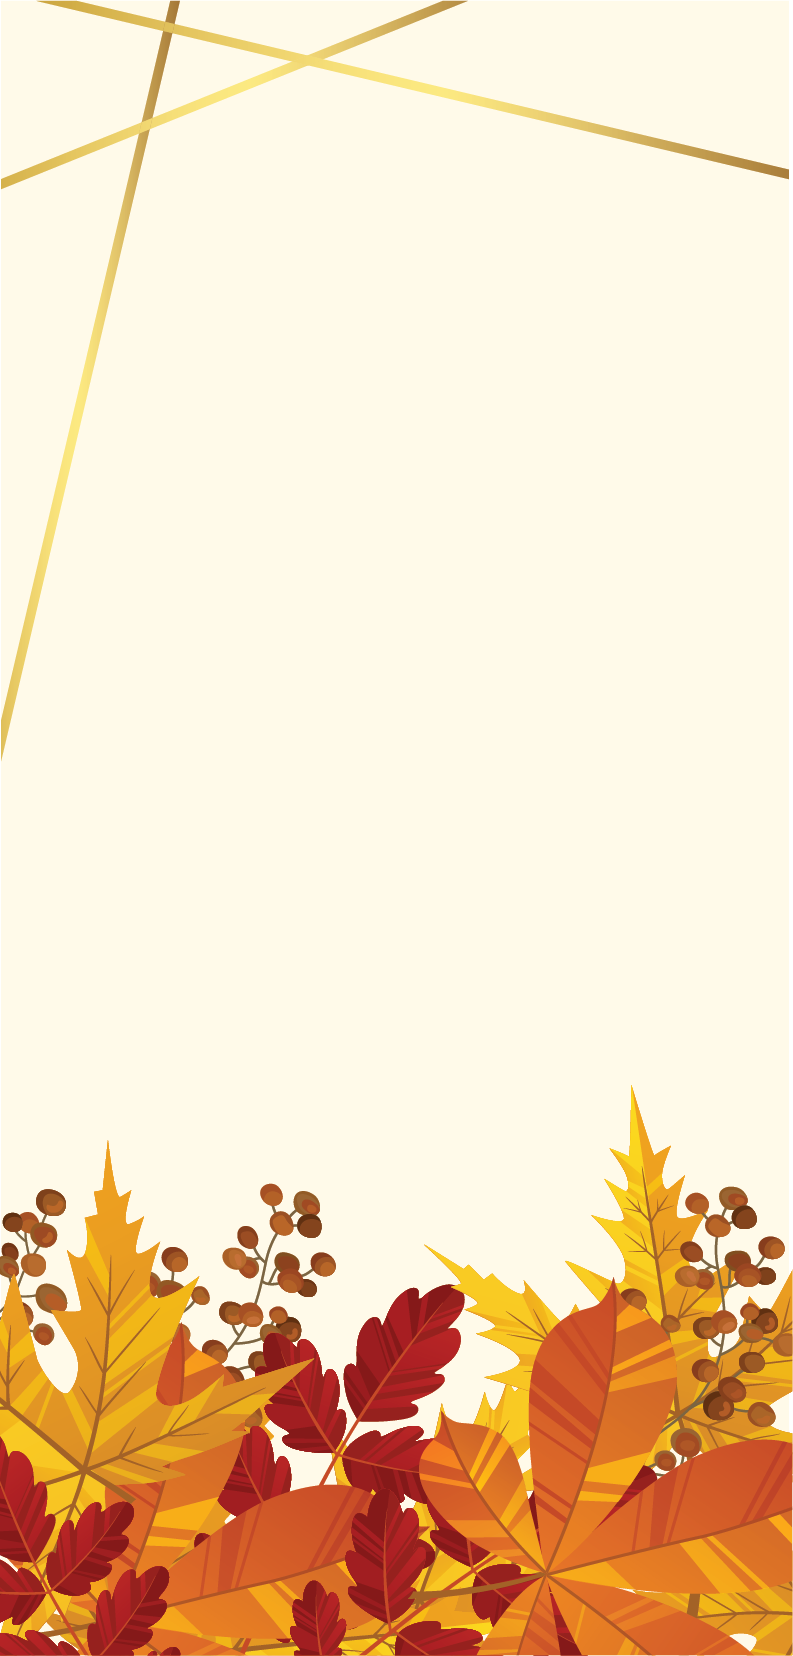
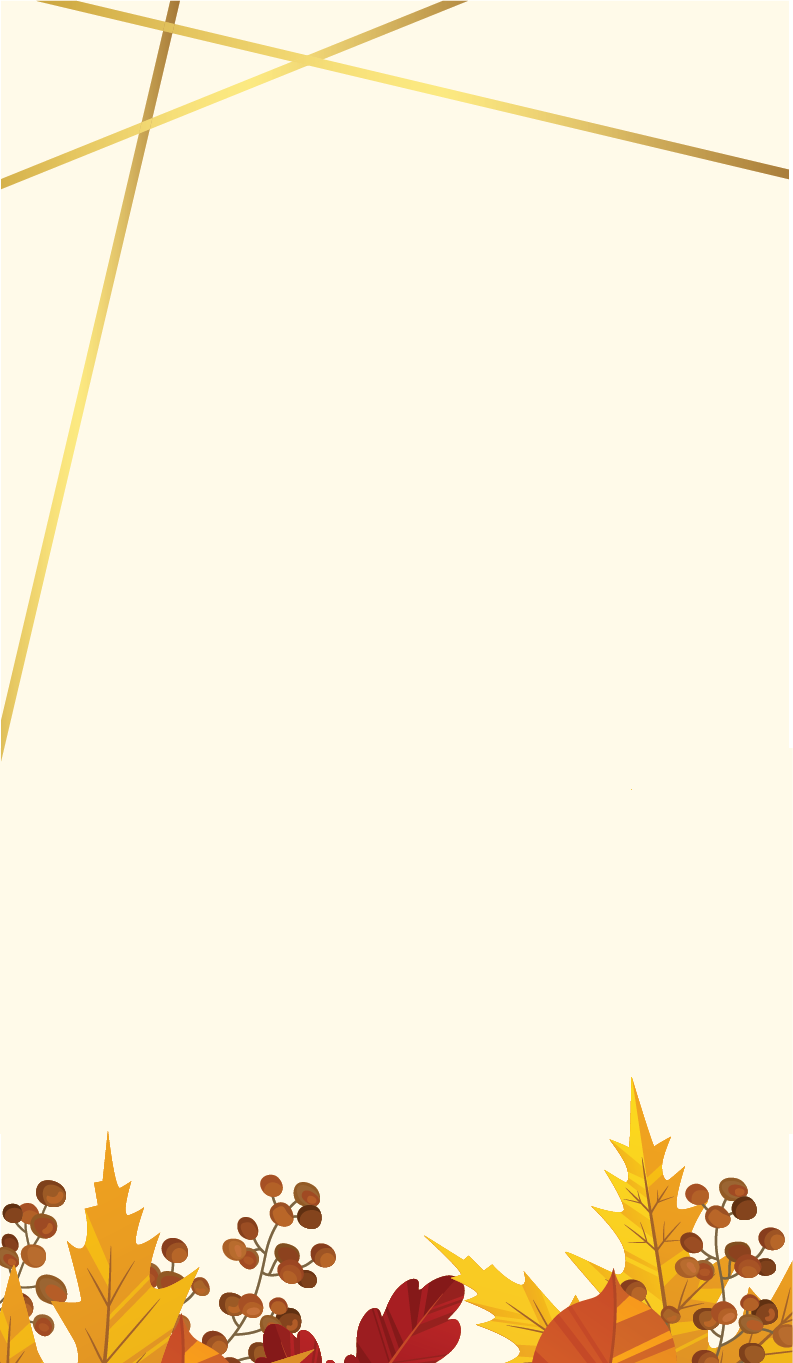
Updated accomodations section

Changed region(s): [[0.0, 0.6471, 1.0, 1.0], [0.0, 0.0, 0.9987, 0.5547]]

diff --git a/index.html b/index.html
@@ -9,16 +9,19 @@
   </head>
   <body>
     <header>
-      <img src="/images/tree.png" alt="An autumn tree with leaves falling">
       <h1>Nicole & Randy</h1>
       <p class="first">are getting married!</p>
       <p class="second">2023.10.14</p>
     </header>
     <main>
-        <section class ="intro">
-            <img class="heroImage" src="/images/nicole-randy.jpg" alt="Picture of a woman and a man">
-        </section>
-      <section class="location">
+      <section class="intro">
+        <img
+          class="heroImage"
+          src="/images/nicole-randy.jpg"
+          alt="Picture of a woman and a man"
+        />
+      </section>
+       <section class="location">
         <div class="description">
             <h1>Join us at Hatfield Farms</h2>
             <p>1840 Hammonds Plains Road, Hammonds Plains, NS B4B 1P4</p>
@@ -29,8 +32,8 @@
 
         </map>
         
-      </section>
-      <section class="schedule">
+      </section> 
+    <section class="schedule">
         <div class="wrapper">
         <h1>Schedule</h1>
         <div class="timeline">
@@ -71,7 +74,7 @@
 </div>
 
       </section>
-      <section class="food">
+    <section class="food">
         <h1>Wedding Dinner</h1>
         <div class="food-section">
           <h2>Main Course</h2>
@@ -99,16 +102,16 @@
           </p>
           <p>Wine will be provided with dinner.</p>
           <p>Guests can also bring their own alchohol, but no glass bottles. Plastic, cans, and cardboard are all fine.</p>
-          <p>Ice will be provided.</p>
+          <p class="lastPara">Ice will be provided.</p>
         </div>
       </section>
-      <section class="entertainment">
+  <section class="entertainment">
         <h1>Entertainment</h1>
         <div class="dance">
             <h2>The Dance</h2>
             <div class="band">
                 <img src="/images/jesus-murphy-logo.png" alt="Jesus Murphy Logo">
-                <p><a href="http://jesusmurphy.ca">Jesus Murphy</a>   will be performing!</p>
+                <p><a href="http://jesusmurphy.ca">Jesus Murphy</a> will be performing!</p>
             </div>
             <div>
                 <iframe class="centeredRoundedCorners" src="https://www.youtube.com/embed/2HaF8O0ObvA" title="Nova MultiFest 2021 - Jesus Murphy Band" frameborder="0" allow="accelerometer; autoplay; clipboard-write; encrypted-media; gyroscope; picture-in-picture" allowfullscreen></iframe>
@@ -120,8 +123,8 @@
         <div class="rubberRodeo">
             <h2>Rubber Rodeo</h2>
             <div class="description">
-                <p>Rubber Rodeo is a blast for people of all ages. Wet weather won’t dampen the fun in this indoor, heated games barn.</p>
-                <p>Become a rubber rodeo star on our Mechanical bull. Blow off some steam in our Box & Bounce ring or challenge friends and family to a round of Gladiator Combat.</p>
+                <p>Rubber Rodeo is a blast for people of all ages. Wet weather won't dampen the fun in this indoor, heated games barn.</p>
+                <p>Become a rubber rodeo star on the Mechanical bull. Blow off some steam in our Box & Bounce ring or challenge friends and family to a round of Gladiator Combat.</p>
             </div>
             <div class="rubberRodeoImages">
                 <img src="/images/bull-riding.png" alt="A man riding a bull with a smiley face.">
@@ -129,34 +132,20 @@
             </div>
         </div>
       </section>
-      <section class="accomodations">
+    <section class="accomodations">
         <h1>Overnight Accomodations</h1>
         <p>If you would like to extend the party and stay after the last wagon leaves at 11:45pm, you can stay onsite.</p>
-        <div class="card">
-            <img src="/images/accomodations.png" alt="A picture of a log cabin">
-            <div class="description">
-                <p>Bring your sleeping bag and enjoy a night under the brilliant stars away from the glare of city lights. With three new cabins (each with four private bedrooms) and two bunkhouses (each with 10 beds) on-site, spending the night cowboy style and waking-up to a farmer’s breakfast has never been so fun! </p>
-                <p>Overnight guests may stay in one of the following:</p> 
-                   <ul>
-                    <li>Tent Site: $26 + tax per person</li>
-                    <li>Open Bunkhouse: $39.00 + tax per person</li>
-                    <li>Individual Room in Cabin: $49.00 + tax per person</li>
-                   </ul> 
-                    <p>Please call the farm to reserve:</p>
-                    <ul>
-                        <li>902-835-5676</li>
-                        <li>or toll-free 1-877-835-5676</li>
-                    </ul>
-                    <p>Payment is required at time of booking. If you need to cancel your booking, you will receive a refund provided you cancel at least 30 days prior the wedding. All cancellations made within 30 days of the wedding are non-refundable.</p>
-            </div>
-        </div>
 
+        <img src="/images/accomodations.png" alt="A picture of a log cabin">
+
+        <p>Bring your sleeping bag and enjoy a night under the brilliant stars away from the glare of city lights. With three new cabins (each with four private bedrooms) and two bunkhouses (each with 10 beds) on-site, spending the night cowboy style and waking-up to a farmer's breakfast has never been so fun! </p>
         <p>Shower facilities and breakfast are included. If there are more than 25 overnight guests, the campfires and main lodge will remain open for the night.</p>
 
-      </section>
-    </main>
-    <footer>
+        <p>Find out more <a href="https://hatfieldfarm.ca/accommodations/?gclid=Cj0KCQjwk5ibBhDqARIsACzmgLSJT32hJsX8Ai0iwwqcvcnlioNnWIqhc0E-DU73nGpf-O4H3SJ7JDkaAkKlEALw_wcB">here.</a></p>
+      </section> 
+    </main> 
+    <!-- <footer>
         <p>We hope you can come! We look forward to seeing you there.</p>
-    </footer>
+    </footer> -->
   </body>
 </html>

diff --git a/style.css b/style.css
@@ -353,6 +353,8 @@ template {
     
 
     --ff-text: "Merriweather", sans-serif;
+
+    --ff-script: "Style Script";
 }
 
 body {
@@ -377,62 +379,33 @@ body {
 
 }
 
-@media (min-width: 50em) {
-
-    body {
-
-        font-size: 1.125rem; 
-    } 
-    }
-
-
 header {
 
-    font-family: "Style Script";
+    font-family: var(--ff-script);
     font-size: 2em;
-    line-height: 0.875rem;
-    position: relative;
+    line-height: .8em;
+    color: var(--clr-accent);
+    text-align: center;
+    min-width: 100%;
+    background-image: url(/images/tree.png);
+    background-size: 100% 100%;
 
-    color: var(--clr-primary);
-    background: var(--clr-accent);
-
-    border: none;
-
-}
-
-
-header img {
-  width: 100%;
 }
 
 header h1 {
-  color: var(--clr-accent);
-  position: absolute;
-  top: 50%;
-  left: 50%;
-  transform: translate(-50%, -50%);
-
-}
-
-header .first {
-  color: var(--clr-accent);
-  position: absolute;
-  top: 50%;
-  left: 50%;
-  transform: translate(-50%, 2em);
+  padding-top: 2em;
 }
 
 header .second {
-  color: var(--clr-accent);
-  position: absolute;
-  top: 50%;
-  left: 50%;
-  transform: translate(-50%, 3.5em);
+  padding-bottom: 1em;
+  margin: 0;
 }
-
 main {
 
     font-family: var(--ff-text);
+    margin: auto;
+    width: 100%;
+    margin-top: 0;
 
 }
 
@@ -450,6 +423,10 @@ main {
 .schedule {
     background-color: var(--clr-accent);
     color: var(--clr-primary);
+}
+
+.schedule h1 {
+  text-align: center;
 }
 
 .description {
@@ -496,11 +473,10 @@ main {
 }
 
 .centeredRoundedCorners {
-    max-width: 75%;
     display: block;
     margin-left: auto;
     margin-right: auto;
-    width: 50%;
+    width: 90%;
     border-radius: 1em;
     margin-bottom: 1em;
 }
@@ -518,20 +494,26 @@ main {
     border-radius: 1em;
 }
 
-.accomodations .card {
-    display: flex;
+.accomodations {
+  text-align: center;
+  padding: 1em;
 }
 
-.accomodations .card img {
+.accomodations img {
     margin: auto;
-    width: 50%;
+    width: 80%;
+    max-width: 800px;
     border-radius: 10%;
     padding: 1em;
+    display: flex;
+    align-items: center;
+    justify-content: center;
 }
 
-.accomodations .card .description {
-    padding: 1em;
+.card > ul {
+  list-style: none;
 }
+
 
 .dance {
     display: flex;
@@ -544,15 +526,20 @@ h2 {
 }
 
 .food {
+  padding: 1em;
   padding-top: 3em;
-  padding-bottom: 20em;
   text-align: center;
-  max-width: 80%;
+  max-width: 90%;
   margin: auto;
   /* border: 5px solid var(--clr-accent); */
   box-shadow: 0 4px 8px 0 rgba(0, 0, 0, 0.3), 0 6px 20px 0 rgba(0, 0, 0, 0.29);
   background-image: url(/images/menu.png);
   background-size: 100% 100%;
+  
+}
+
+.food-section .lastPara {
+  display: none;
 }
 
 .food ul {
@@ -560,7 +547,30 @@ h2 {
   list-style: none;
 }
 
+.food h1, .food h2 {
+  font-family: var(--ff-script);
+  color: var(--clr-accent);
+}
 
+.entertainment {
+  padding-top: 1em;
+
+}
+
+.entertainment > * {
+  text-align: center;
+  background-color: var(--clr-accent);
+  color: var(--clr-primary);
+}
+
+.entertainment img {
+  margin-bottom: 2em;
+}
+
+.entertainment h1 {
+  margin: auto;
+  padding-top: 1em;
+}
 
 
 /* timeline */
